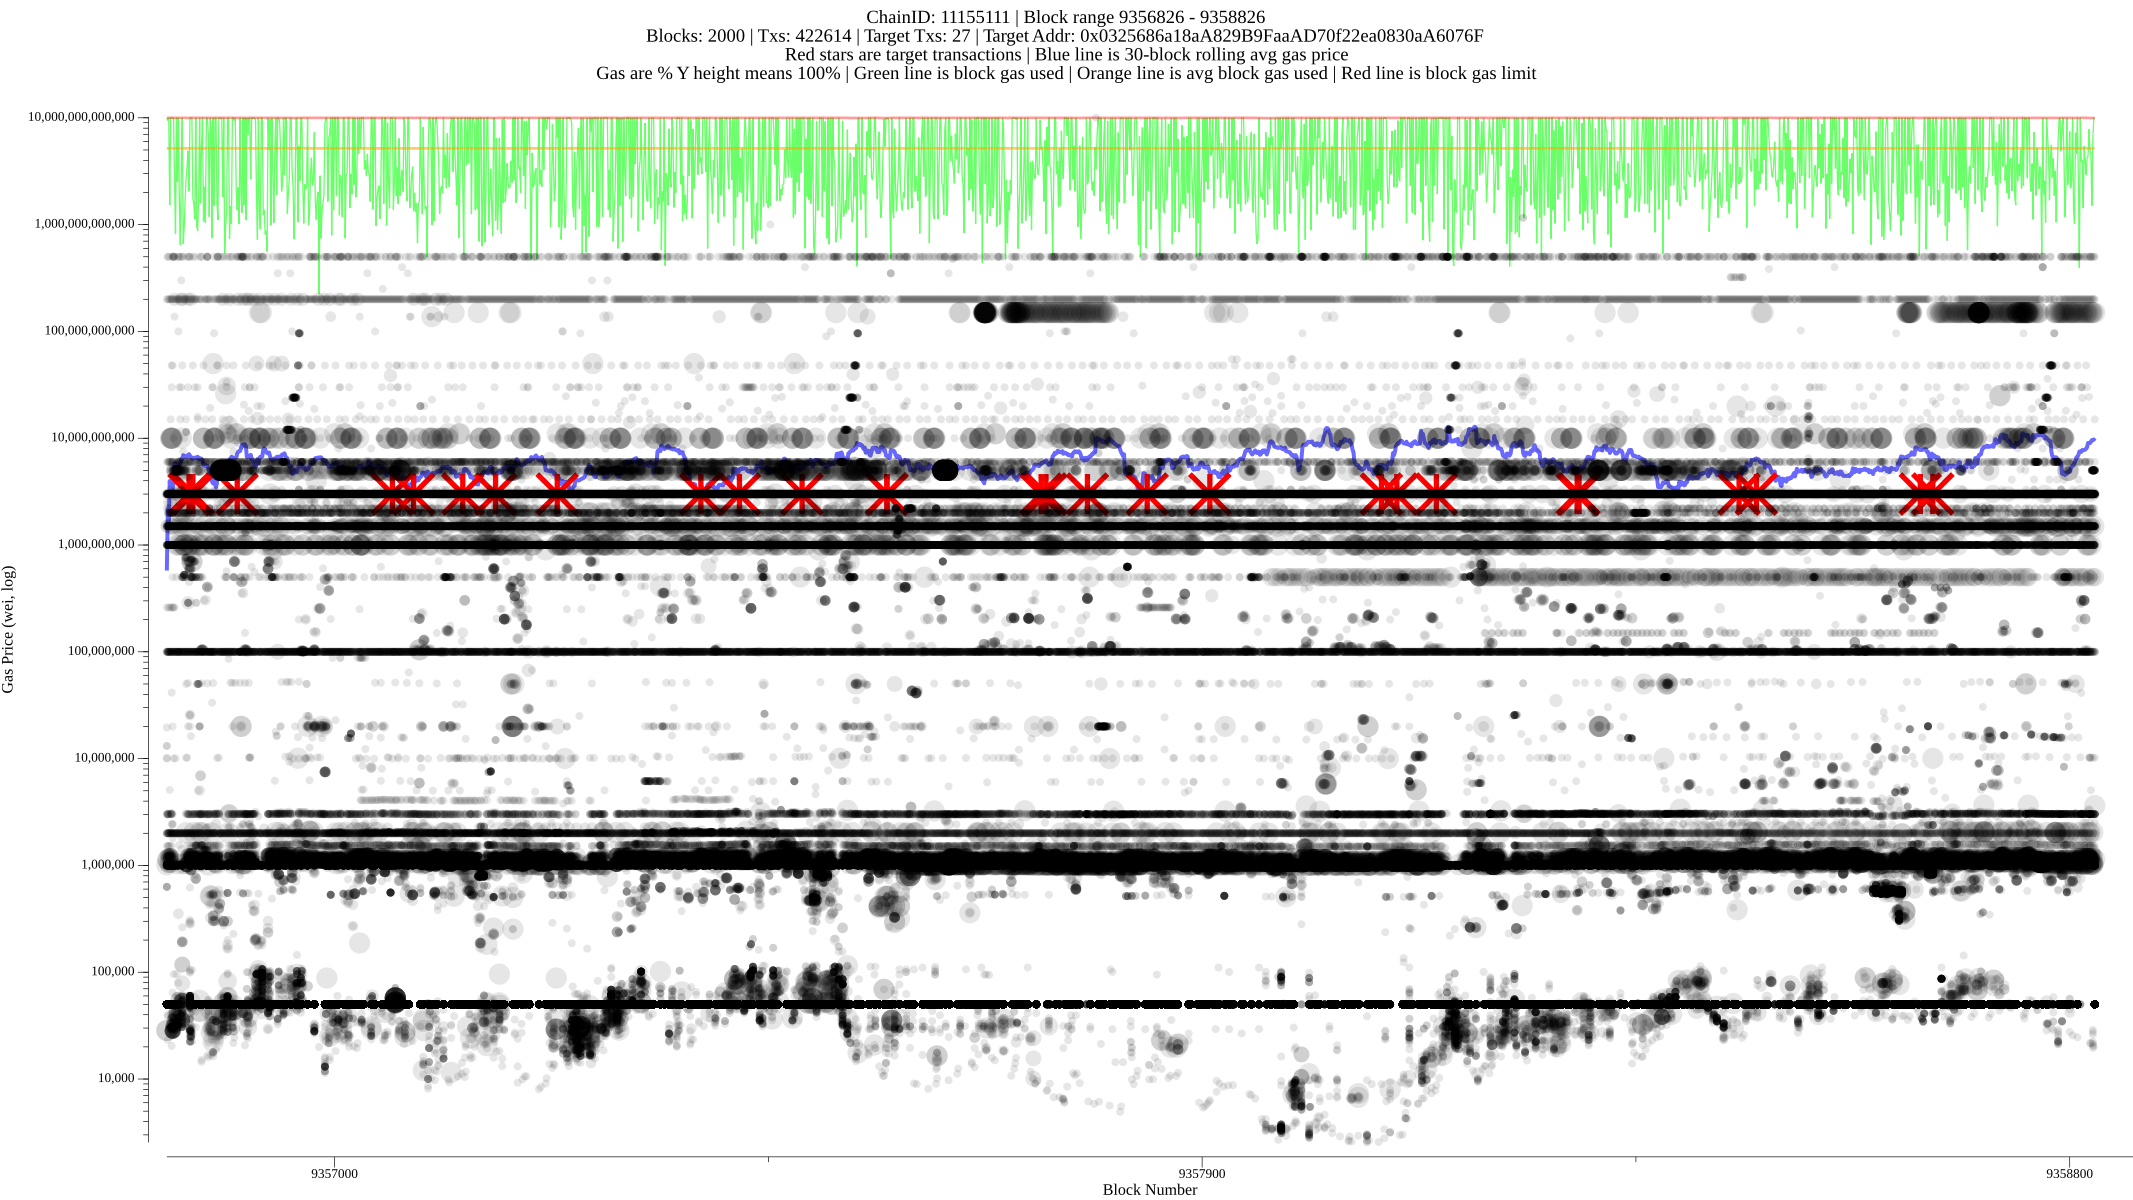
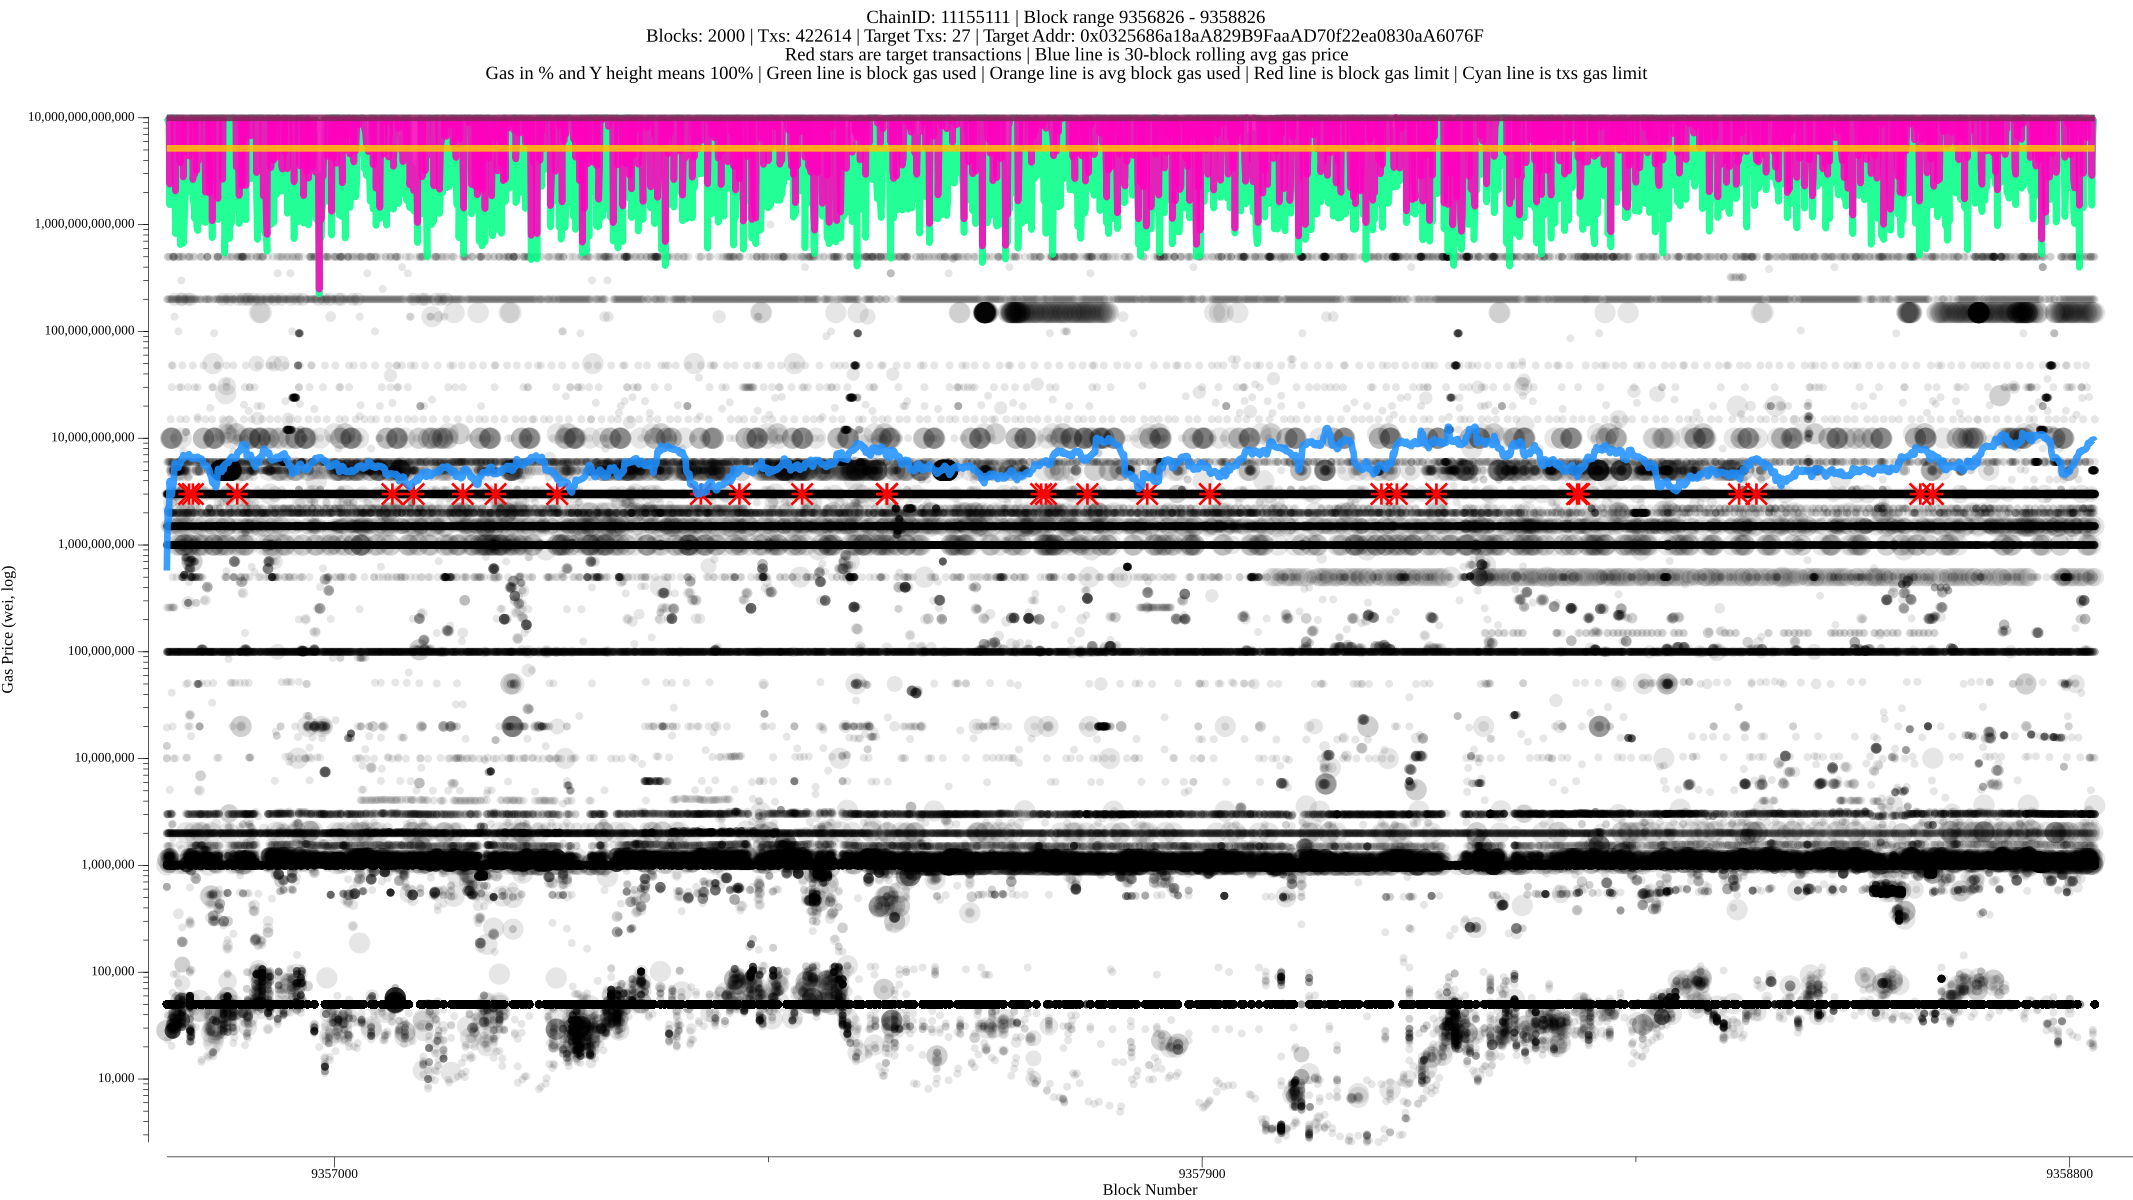
refactoring loadtest gas price manager waves and tx-gas-chart;

diff --git a/cmd/txgaschart/chart.go b/cmd/txgaschart/chart.go
@@ -16,20 +16,32 @@ import (
 )
 
 var (
-	gasLimitLineColor     = color.NRGBA{255, 0, 0, 100}
-	gasLimitLineThickness = 2
+	gasBlockLimitLineColor     = color.NRGBA{130, 38, 89, 220}
+	gasBlockLimitLineThickness = 5
 
-	gasUsedLineColor     = color.NRGBA{0, 255, 0, 150}
-	gasUsedLineThickness = 1
+	gasTxsLimitLineColor     = color.NRGBA{255, 0, 189, 220}
+	gasTxsLimitLineThickness = 5
 
-	avgGasUsedLineColor     = color.NRGBA{255, 165, 0, 150}
-	avgGasUsedLineThickness = 2
+	gasUsedLineColor     = color.NRGBA{0, 255, 133, 220}
+	gasUsedLineThickness = 5
 
-	avgGasPriceAvgLineColor     = color.NRGBA{0, 0, 255, 150}
-	avgGasPriceAvgLineThickness = 3
+	avgGasUsedLineColor     = color.NRGBA{255, 193, 7, 220}
+	avgGasUsedLineThickness = 5
 
-	txDotsColor       = color.NRGBA{0, 0, 0, 25}
-	targetTxDotsColor = color.NRGBA{255, 0, 0, 255}
+	avgGasPriceAvgLineColor     = color.NRGBA{30, 144, 255, 220}
+	avgGasPriceAvgLineThickness = 5
+
+	txDotsColor = color.NRGBA{0, 0, 0, 25}
+	txDotsSize1 = 3
+	txDotsSize2 = 4
+	txDotsSize3 = 5
+	txDotsSize4 = 6
+	txDotsSize5 = 7
+	txDotsSize6 = 8
+
+	targetTxDotsThickness = 2
+	targetTxDotsSize      = 8
+	targetTxDotsColor     = color.NRGBA{255, 0, 0, 255}
 )
 
 type txGasChartMetadata struct {
@@ -50,8 +62,14 @@ type txGasChartMetadata struct {
 func plotChart(metadata txGasChartMetadata) error {
 	p := plot.New()
 	createHeader(p, metadata)
-	createLines(p, metadata)
 	createTxsDots(p, metadata)
+	createLines(p, metadata)
+
+	p.X.Min = float64(metadata.startBlock)
+	p.X.Max = float64(metadata.endBlock) + (float64(metadata.endBlock-metadata.startBlock) * 0.02)
+	p.Y.Min = float64(metadata.blocksMetadata.minTxGasPrice)
+	p.Y.Max = float64(metadata.blocksMetadata.maxTxGasPrice) * 1.02
+
 	return save(p, metadata)
 }
 
@@ -64,7 +82,7 @@ func createHeader(p *plot.Plot, metadata txGasChartMetadata) {
 	} else {
 		title += "\n"
 	}
-	title += "Red stars are target transactions | Blue line is 30-block rolling avg gas price\nGas are % Y height means 100% | Green line is block gas used | Orange line is avg block gas used | Red line is block gas limit"
+	title += "Red stars are target transactions | Blue line is 30-block rolling avg gas price\nGas in % and Y height means 100% | Green line is block gas used | Orange line is avg block gas used | Red line is block gas limit | Cyan line is txs gas limit"
 	p.Title.Text = title
 }
 
@@ -79,10 +97,6 @@ func createTxsDots(p *plot.Plot, metadata txGasChartMetadata) {
 		p.Y.Label.Text = "Gas Price (wei, linear)"
 	}
 
-	p.X.Min = float64(metadata.startBlock)
-	p.X.Max = float64(metadata.endBlock) + (float64(metadata.endBlock-metadata.startBlock) * 0.02)
-	p.Y.Min = float64(metadata.blocksMetadata.minTxGasPrice)
-	p.Y.Max = float64(metadata.blocksMetadata.maxTxGasPrice) * 1.02
 	p.Y.Tick.Marker = plot.TickerFunc(func(min, max float64) []plot.Tick {
 		ticks := plot.LogTicks{}.Ticks(min, max)
 		for i := range ticks {
@@ -131,18 +145,7 @@ func createTxsDots(p *plot.Plot, metadata txGasChartMetadata) {
 		}
 	}
 
-	if len(txGroups[0]) > 0 {
-		sc, err := plotter.NewScatter(txGroups[0])
-		if err != nil {
-			log.Error().Err(err).Msg("failed to create target tx scatter plot")
-		} else {
-			sc.GlyphStyle.Color = targetTxDotsColor
-			sc.GlyphStyle.Shape = ThickCrossGlyph{Width: vg.Points(4)}
-			sc.GlyphStyle.Radius = vg.Points(15)
-			p.Add(sc)
-		}
-	}
-
+	// other transactions
 	for group := range len(txGroups) {
 		if group == 0 {
 			continue
@@ -158,18 +161,31 @@ func createTxsDots(p *plot.Plot, metadata txGasChartMetadata) {
 			sc.GlyphStyle.Shape = draw.CircleGlyph{}
 			switch group {
 			case 1:
-				sc.GlyphStyle.Radius = vg.Points(3)
+				sc.GlyphStyle.Radius = vg.Points(float64(txDotsSize1))
 			case 2:
-				sc.GlyphStyle.Radius = vg.Points(4)
+				sc.GlyphStyle.Radius = vg.Points(float64(txDotsSize2))
 			case 3:
-				sc.GlyphStyle.Radius = vg.Points(5)
+				sc.GlyphStyle.Radius = vg.Points(float64(txDotsSize3))
 			case 4:
-				sc.GlyphStyle.Radius = vg.Points(6)
+				sc.GlyphStyle.Radius = vg.Points(float64(txDotsSize4))
 			case 5:
-				sc.GlyphStyle.Radius = vg.Points(7)
+				sc.GlyphStyle.Radius = vg.Points(float64(txDotsSize5))
 			case 6:
-				sc.GlyphStyle.Radius = vg.Points(8)
+				sc.GlyphStyle.Radius = vg.Points(float64(txDotsSize6))
 			}
+			p.Add(sc)
+		}
+	}
+
+	// target transactions
+	if len(txGroups[0]) > 0 {
+		sc, err := plotter.NewScatter(txGroups[0])
+		if err != nil {
+			log.Error().Err(err).Msg("failed to create target tx scatter plot")
+		} else {
+			sc.GlyphStyle.Color = targetTxDotsColor
+			sc.GlyphStyle.Shape = ThickCrossGlyph{Width: vg.Points(float64(targetTxDotsThickness))}
+			sc.GlyphStyle.Radius = vg.Points(float64(targetTxDotsSize))
 			p.Add(sc)
 		}
 	}
@@ -178,7 +194,8 @@ func createTxsDots(p *plot.Plot, metadata txGasChartMetadata) {
 func createLines(p *plot.Plot, metadata txGasChartMetadata) {
 	var blocks []uint64
 	var perBlockAvgGasPrice = make(map[uint64]float64)
-	pointsGasLimit := make(plotter.XYs, len(metadata.blocksMetadata.blocks))
+	pointsBlockGasLimit := make(plotter.XYs, len(metadata.blocksMetadata.blocks))
+	pointsTxsGasLimit := make(plotter.XYs, len(metadata.blocksMetadata.blocks))
 	pointsAvgGasUsed := make(plotter.XYs, len(metadata.blocksMetadata.blocks))
 	pointsGasUsed := make(plotter.XYs, len(metadata.blocksMetadata.blocks))
 	for i, b := range metadata.blocksMetadata.blocks {
@@ -186,8 +203,11 @@ func createLines(p *plot.Plot, metadata txGasChartMetadata) {
 
 		perBlockAvgGasPrice[b.number] = float64(b.avgGasPrice)
 
-		pointsGasLimit[i].X = float64(b.number)
-		pointsGasLimit[i].Y = scaleGasToGasPrice(b.gasLimit, metadata)
+		pointsBlockGasLimit[i].X = float64(b.number)
+		pointsBlockGasLimit[i].Y = scaleGasToGasPrice(b.gasLimit, metadata)
+
+		pointsTxsGasLimit[i].X = float64(b.number)
+		pointsTxsGasLimit[i].Y = scaleGasToGasPrice(b.txsGasLimit, metadata)
 
 		pointsAvgGasUsed[i].X = float64(b.number)
 		pointsAvgGasUsed[i].Y = scaleGasToGasPrice(metadata.blocksMetadata.avgBlockGasUsed, metadata)
@@ -207,9 +227,14 @@ func createLines(p *plot.Plot, metadata txGasChartMetadata) {
 	line.Width = vg.Points(float64(gasUsedLineThickness))
 	p.Add(line)
 
-	line, _ = plotter.NewLine(pointsGasLimit)
-	line.Color = gasLimitLineColor
-	line.Width = vg.Points(float64(gasLimitLineThickness))
+	line, _ = plotter.NewLine(pointsTxsGasLimit)
+	line.Color = gasTxsLimitLineColor
+	line.Width = vg.Points(float64(gasTxsLimitLineThickness))
+	p.Add(line)
+
+	line, _ = plotter.NewLine(pointsBlockGasLimit)
+	line.Color = gasBlockLimitLineColor
+	line.Width = vg.Points(float64(gasBlockLimitLineThickness))
 	p.Add(line)
 
 	line, _ = plotter.NewLine(pointsAvgGasUsed)

diff --git a/cmd/loadtest/loadtest.go b/cmd/loadtest/loadtest.go
@@ -840,7 +840,6 @@ func mainLoop(ctx context.Context, c *ethclient.Client, rpc *ethrpc.Client) erro
 		return err
 	}
 
-	// TODO(Thiago): make this configurable
 	infinite := inputLoadTestParams.Infinite
 	for {
 		for routineID := range maxRoutines {
@@ -1458,6 +1457,9 @@ func getSuggestedGasPrices(ctx context.Context, c *ethclient.Client, gasPricer *
 			if gp != nil {
 				gasPrice = big.NewInt(0).SetUint64(*gp)
 			} else {
+				if cachedBlockNumber != nil && bn <= *cachedBlockNumber {
+					return cachedGasPrice, cachedGasTipCap
+				}
 				gasPrice, pErr = c.SuggestGasPrice(ctx)
 				if pErr != nil {
 					log.Error().Err(pErr).Msg("Unable to suggest gas price")
@@ -1473,21 +1475,17 @@ func getSuggestedGasPrices(ctx context.Context, c *ethclient.Client, gasPricer *
 			gasTipCap = new(big.Int).SetUint64(inputLoadTestParams.ForcePriorityGasPrice)
 			forcePriorityGasPrice = gasTipCap
 		} else if inputLoadTestParams.ChainSupportBaseFee {
-			var gp *uint64
-			if gasPricer != nil {
-				gp = gasPricer.GetGasPrice()
-			}
-			if gp != nil {
-				gasTipCap = big.NewInt(0).SetUint64(*gp)
+			if cachedBlockNumber != nil && bn <= *cachedBlockNumber {
+				gasTipCap = cachedGasTipCap
 			} else {
 				gasTipCap, tErr = c.SuggestGasTipCap(ctx)
 				if tErr != nil {
 					log.Error().Err(tErr).Msg("Unable to suggest gas tip cap")
 					return cachedGasPrice, cachedGasTipCap
 				}
+				// Bias the value up slightly
+				gasTipCap = biasGasPrice(gasTipCap)
 			}
-			// Bias the value up slightly
-			gasTipCap = biasGasPrice(gasTipCap)
 		} else {
 			log.Fatal().
 				Msg("Chain does not support base fee. Please set priority-gas-price flag with a value to use for gas tip cap")
@@ -1496,7 +1494,18 @@ func getSuggestedGasPrices(ctx context.Context, c *ethclient.Client, gasPricer *
 		if inputLoadTestParams.ForceGasPrice != 0 {
 			gasPrice = new(big.Int).SetUint64(inputLoadTestParams.ForceGasPrice)
 		} else if inputLoadTestParams.ChainSupportBaseFee {
-			gasPrice = suggestMaxFeePerGas(ctx, c, bn, forcePriorityGasPrice)
+			var gp *uint64
+			if gasPricer != nil {
+				gp = gasPricer.GetGasPrice()
+			}
+			if gp != nil {
+				gasPrice = big.NewInt(0).SetUint64(*gp)
+			} else {
+				if cachedBlockNumber != nil && bn <= *cachedBlockNumber {
+					return cachedGasPrice, cachedGasTipCap
+				}
+				gasPrice = suggestMaxFeePerGas(ctx, c, bn, forcePriorityGasPrice)
+			}
 		} else {
 			log.Fatal().
 				Msg("Chain does not support base fee. Please set gas-price flag with a value to use for max fee per gas")

diff --git a/cmd/txgaschart/cmd.go b/cmd/txgaschart/cmd.go
@@ -47,6 +47,7 @@ type block struct {
 	number      uint64
 	avgGasPrice uint64
 	gasLimit    uint64
+	txsGasLimit uint64
 	gasUsed     uint64
 	txs         []transaction
 }
@@ -178,7 +179,7 @@ func parseFlags(ctx context.Context, client *ethclient.Client) (*txGasChartConfi
 		return nil, fmt.Errorf("start block %d cannot be greater than end block %d", config.startBlock, config.endBlock)
 	}
 
-	const defaultBlockRange = 100
+	const defaultBlockRange = 500
 
 	if config.startBlock == 0 {
 		if config.endBlock < defaultBlockRange {
@@ -266,6 +267,7 @@ func loadBlocksMetadata(ctx context.Context, config *txGasChartConfig, client *e
 				blockMutex.Unlock()
 
 				totalGasPrice := uint64(0)
+				totalGasLimit := uint64(0)
 				for txi, tx := range txs {
 					signer := types.LatestSignerForChainID(chainID)
 					from, _ := types.Sender(signer, tx)
@@ -284,6 +286,7 @@ func loadBlocksMetadata(ctx context.Context, config *txGasChartConfig, client *e
 					}
 
 					totalGasPrice += gasPrice
+					totalGasLimit += gasLimit
 
 					blockMutex.Lock()
 					blocks.minTxGasLimit = min(blocks.minTxGasLimit, gasLimit)
@@ -308,6 +311,8 @@ func loadBlocksMetadata(ctx context.Context, config *txGasChartConfig, client *e
 				} else {
 					b.avgGasPrice = 1
 				}
+
+				b.txsGasLimit = totalGasLimit
 
 				blocks.blocks[blockNumber-offset] = b
 				break

diff --git a/cmd/loadtest/gasmanager/strategy_dynamic_gas.go b/cmd/loadtest/gasmanager/strategy_dynamic_gas.go
@@ -1,6 +1,7 @@
 package gasmanager
 
 import (
+	"math/rand/v2"
 	"sync/atomic"
 )
 
@@ -29,8 +30,7 @@ func (s *DynamicGasPriceStrategy) GetGasPrice() *uint64 {
 	}
 
 	// introduce random  variation
-	// factor := 0.7 + rand.Float64()*0.6 // random value in [0.7, 1.3]
-	factor := float64(1)
+	factor := 0.7 + rand.Float64()*0.6 // random value in [0.7, 1.3]
 	varied := uint64(float64(gp) * factor)
 	return &varied
 }
